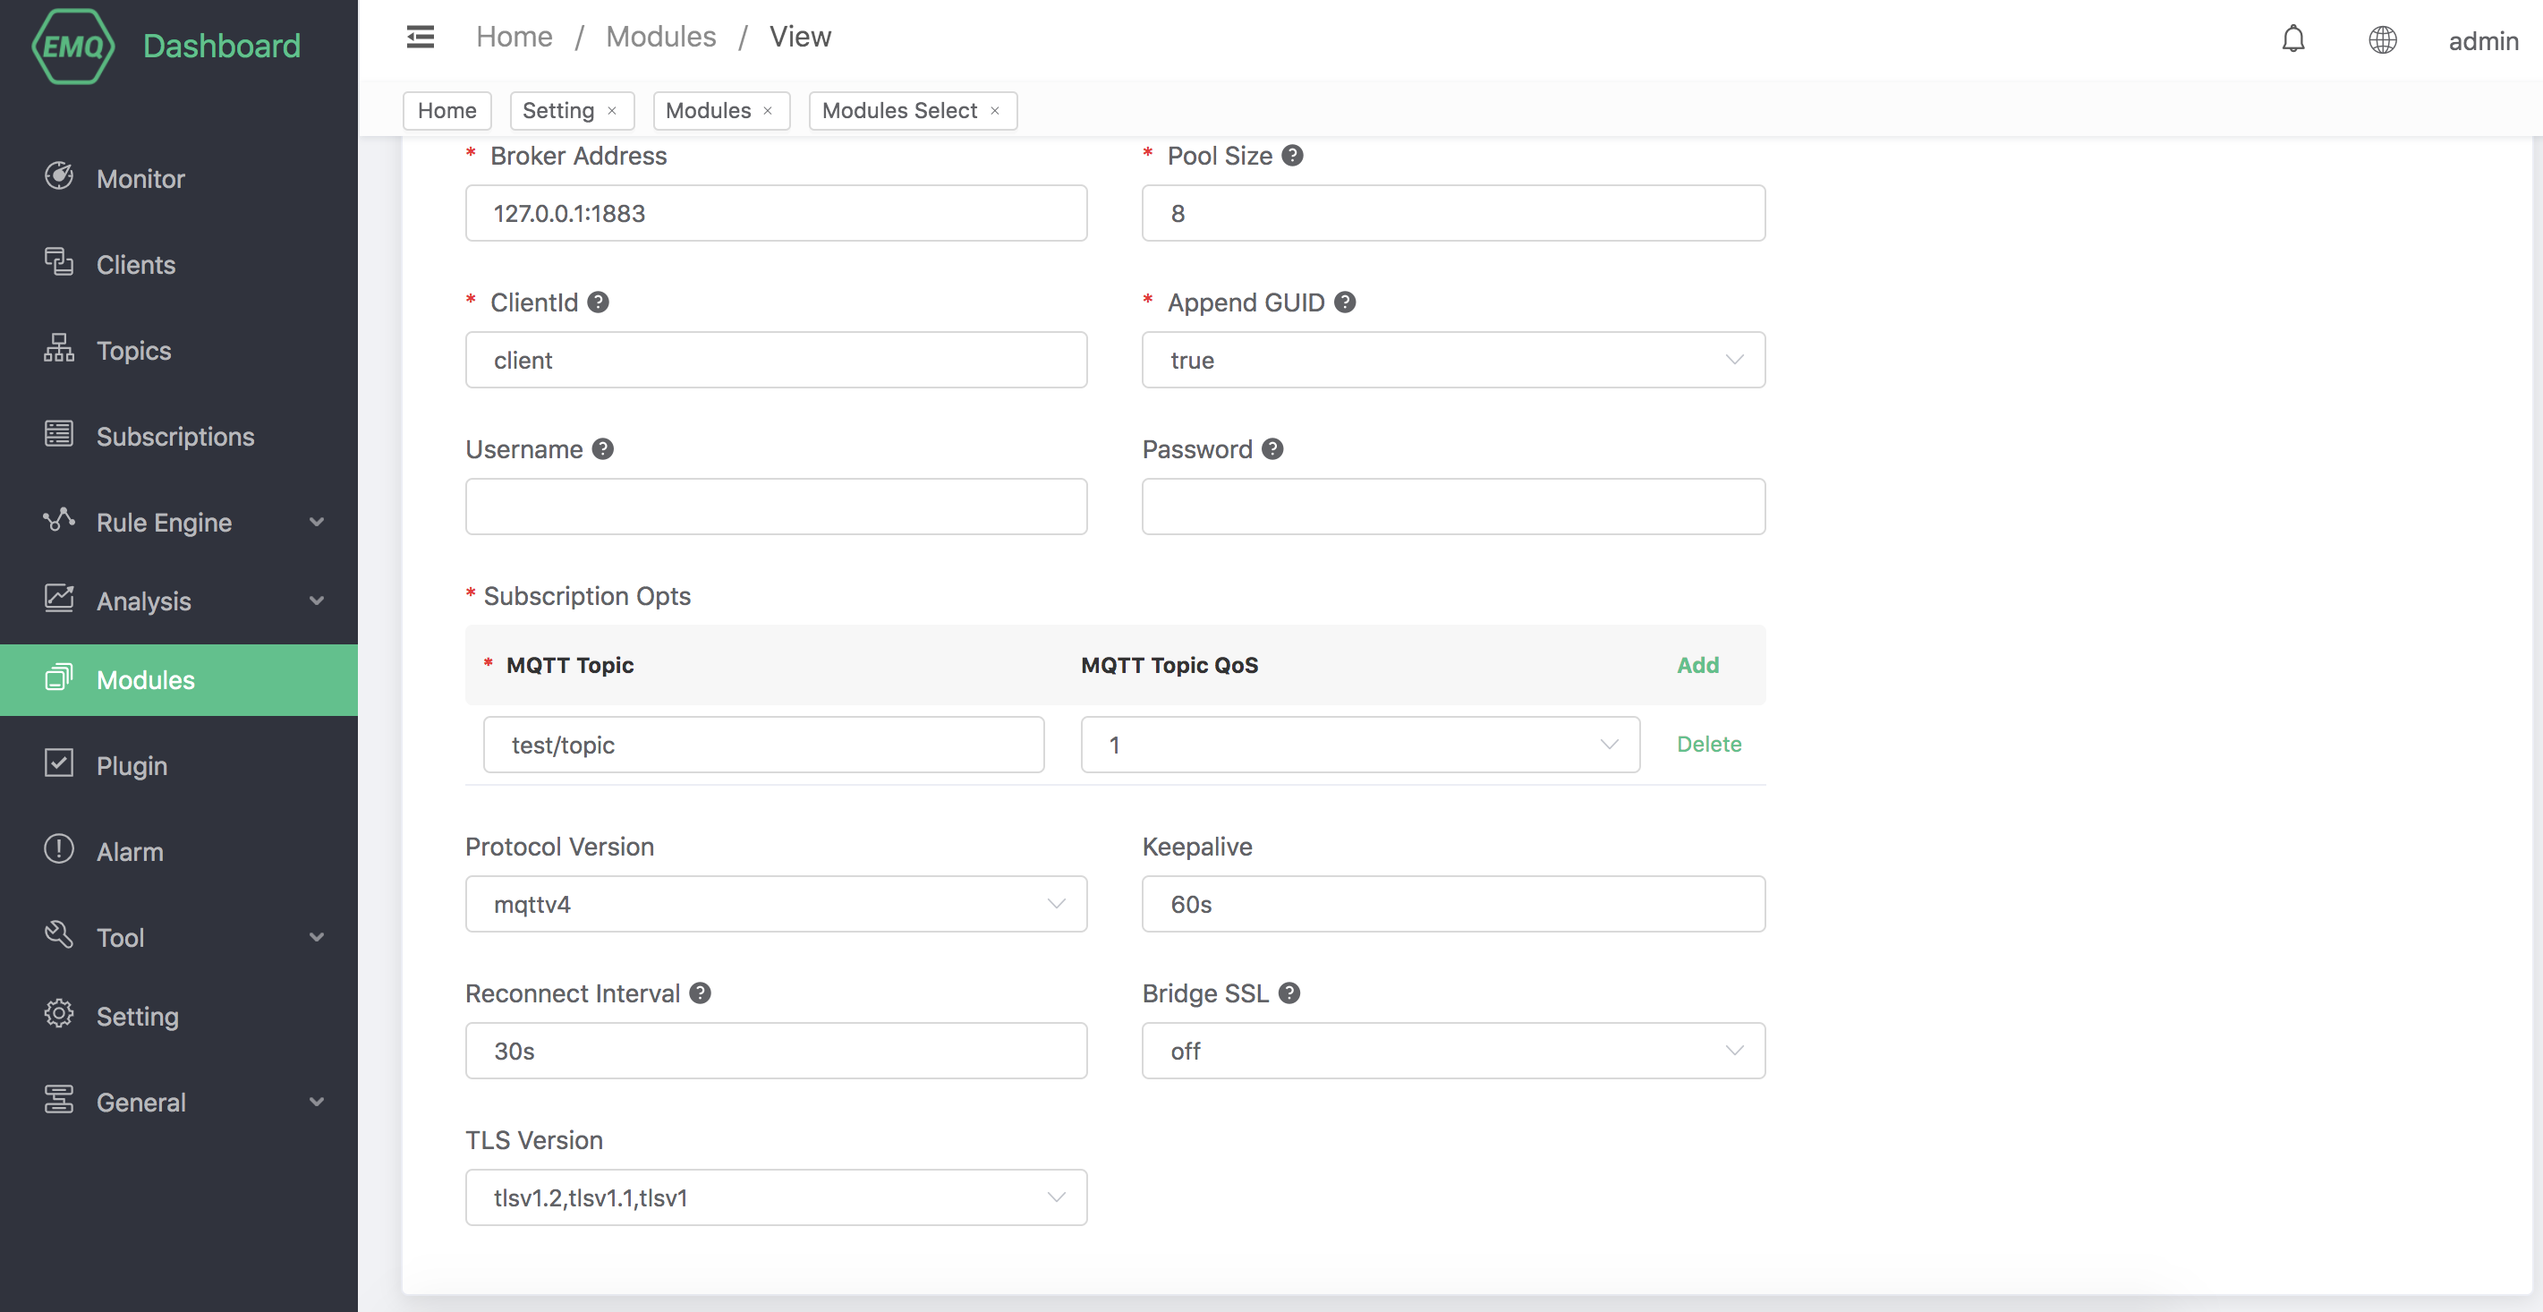
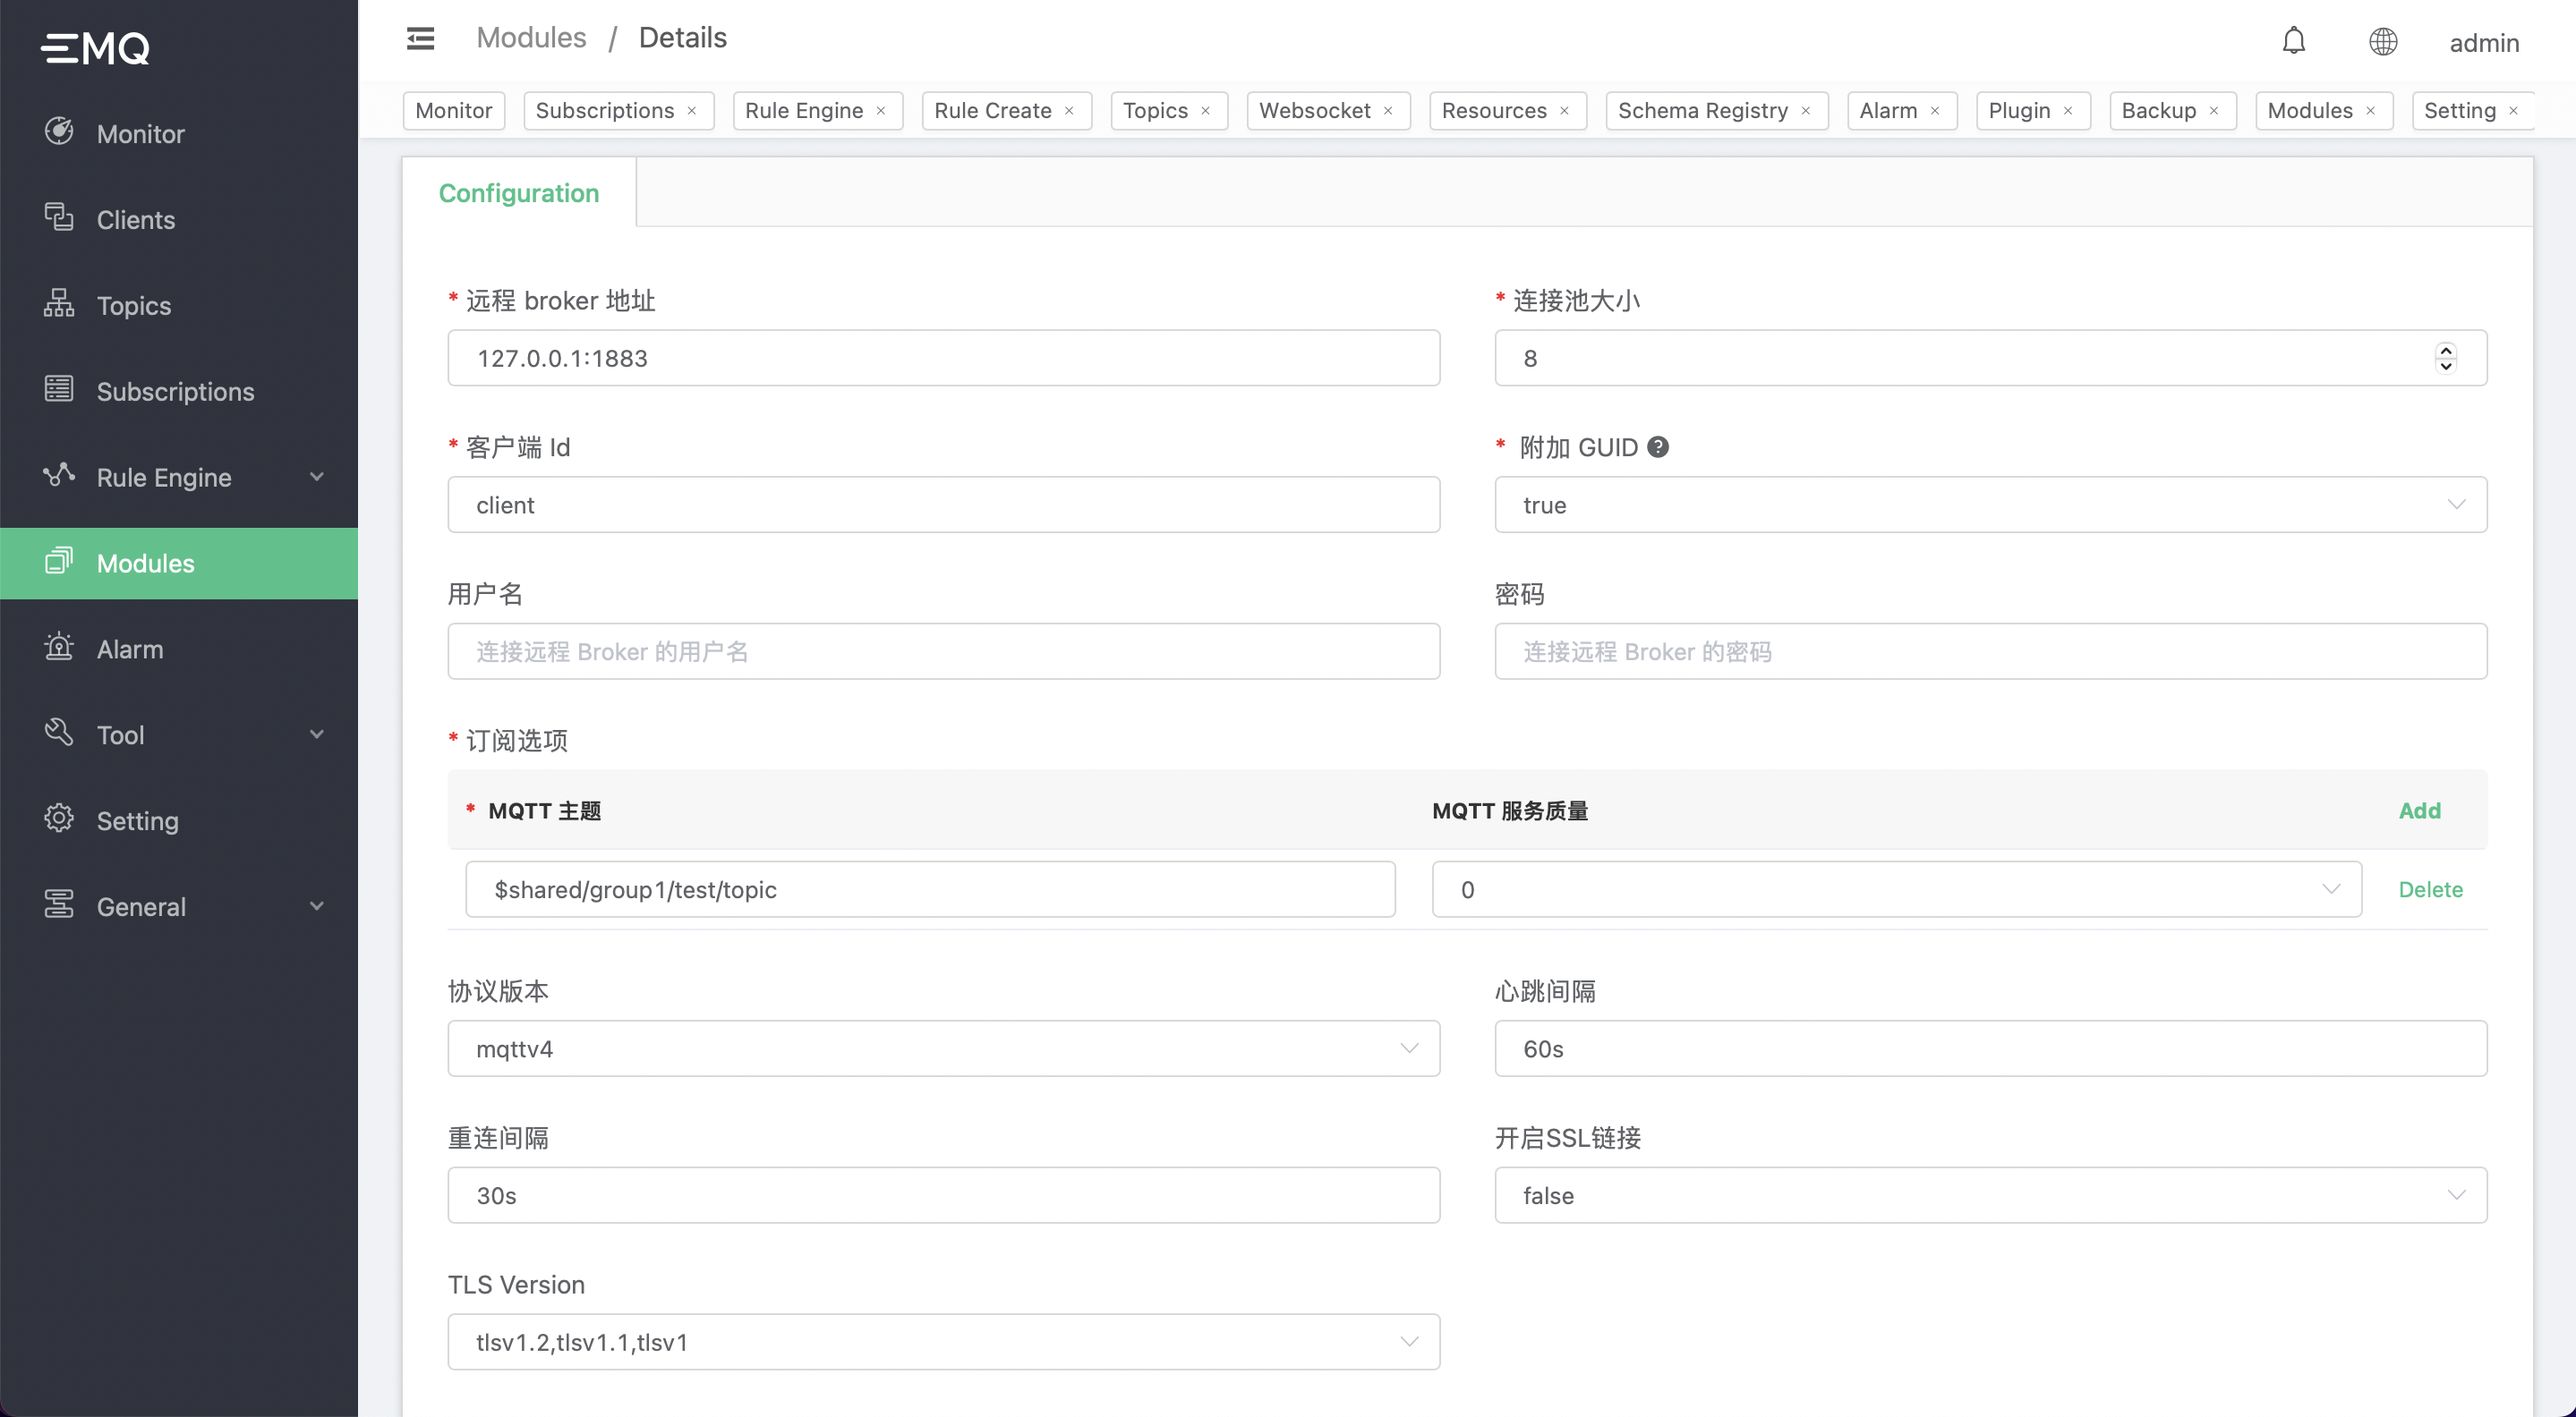
fix: recommend to use shared subscription for MQTT bridges

diff --git a/en_US/modules/mqtt_subscriber.md b/en_US/modules/mqtt_subscriber.md
@@ -10,7 +10,6 @@ Select the MQTT subscriber module:
 
 ![](./assets/mqtt_subscriber1.png)
 
-
 Fill in the relevant parameters:
 
 ![](./assets/mqtt_subscriber2.png)
@@ -18,3 +17,10 @@ Fill in the relevant parameters:
 After clicking Add, the module is added:
 
 ![](./assets/mqtt_subscriber3.png)
+
+::: warning
+If the MQTT server supports shared subscription, then we should use it. This is
+because all the emqx nodes in the cluster subscribe to the same topic, if the
+shared subscription is not used, each node will receive the same message,
+resulting in duplicate messages.
+:::

diff --git a/zh_CN/modules/mqtt_subscriber.md b/zh_CN/modules/mqtt_subscriber.md
@@ -10,7 +10,6 @@
 
 ![](./assets/mqtt_subscriber1.png)
 
-
 填写相关参数:
 
 ![](./assets/mqtt_subscriber2.png)
@@ -18,3 +17,8 @@
 点击添加后，模块添加完成:
 
 ![](./assets/mqtt_subscriber3.png)
+
+::: warning
+如果服务端支持共享订阅，那么应该使用共享订阅 ($shared/<群组名>/<主题>)。因为集群里的所有
+emqx 节点都会订阅同一个主题，如果不使用共享订阅，每个节点都会收到同样的消息，导致消息重复。
+:::
